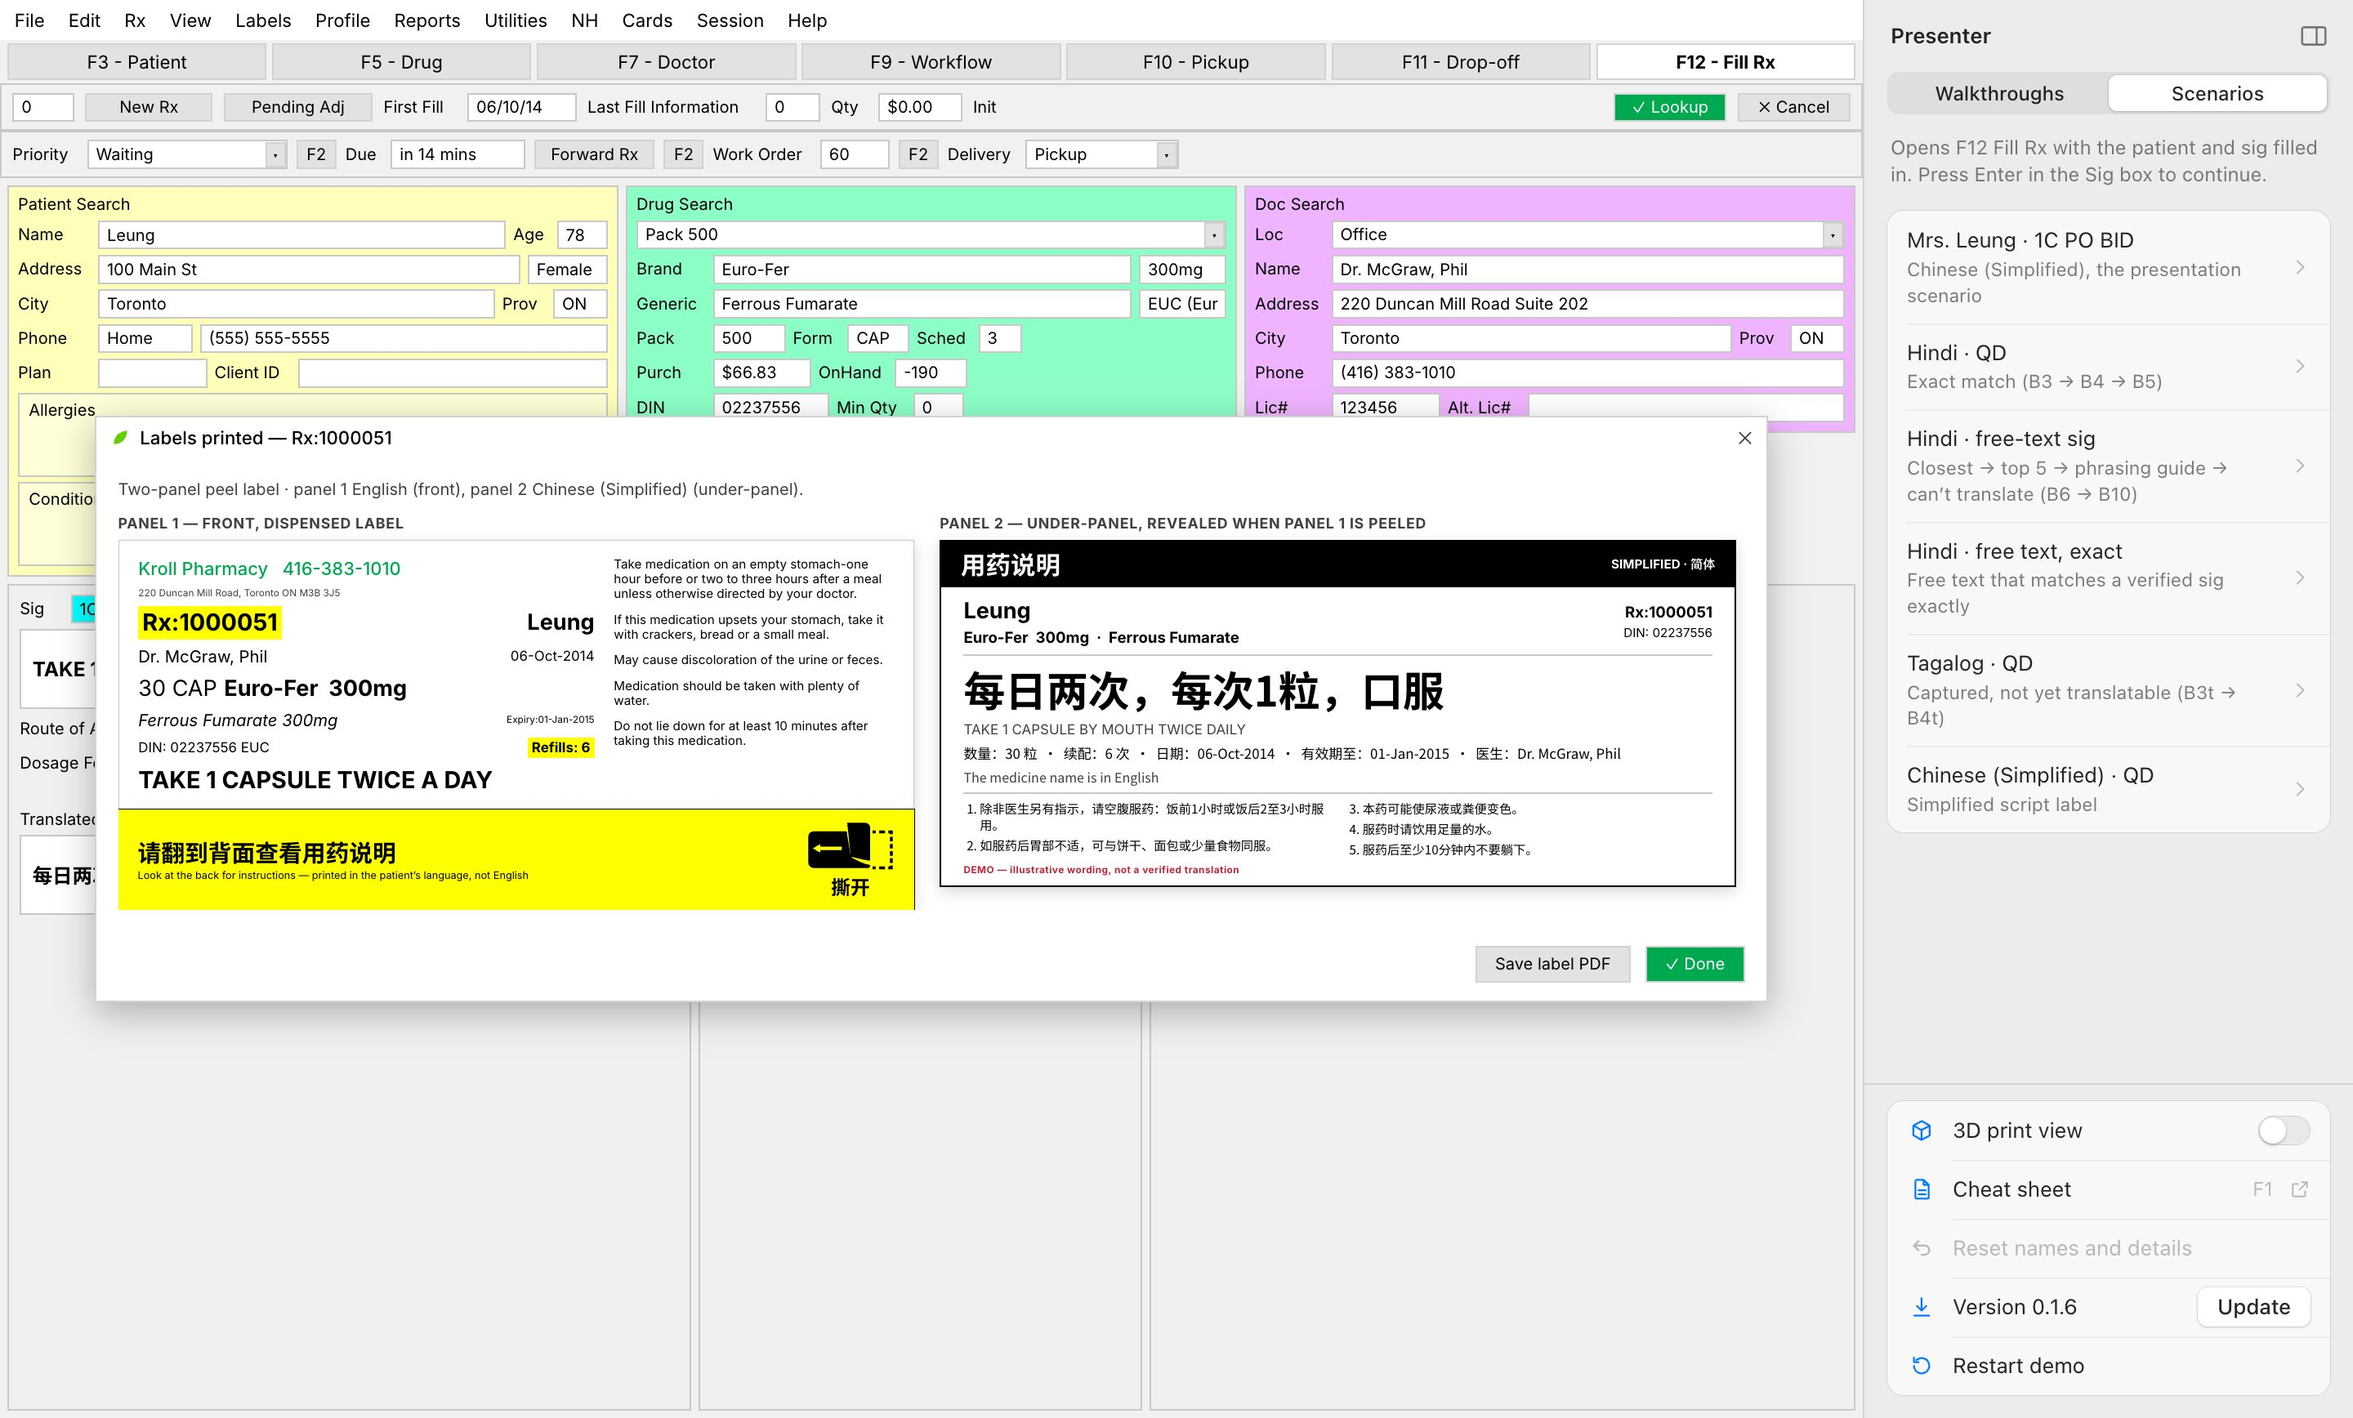
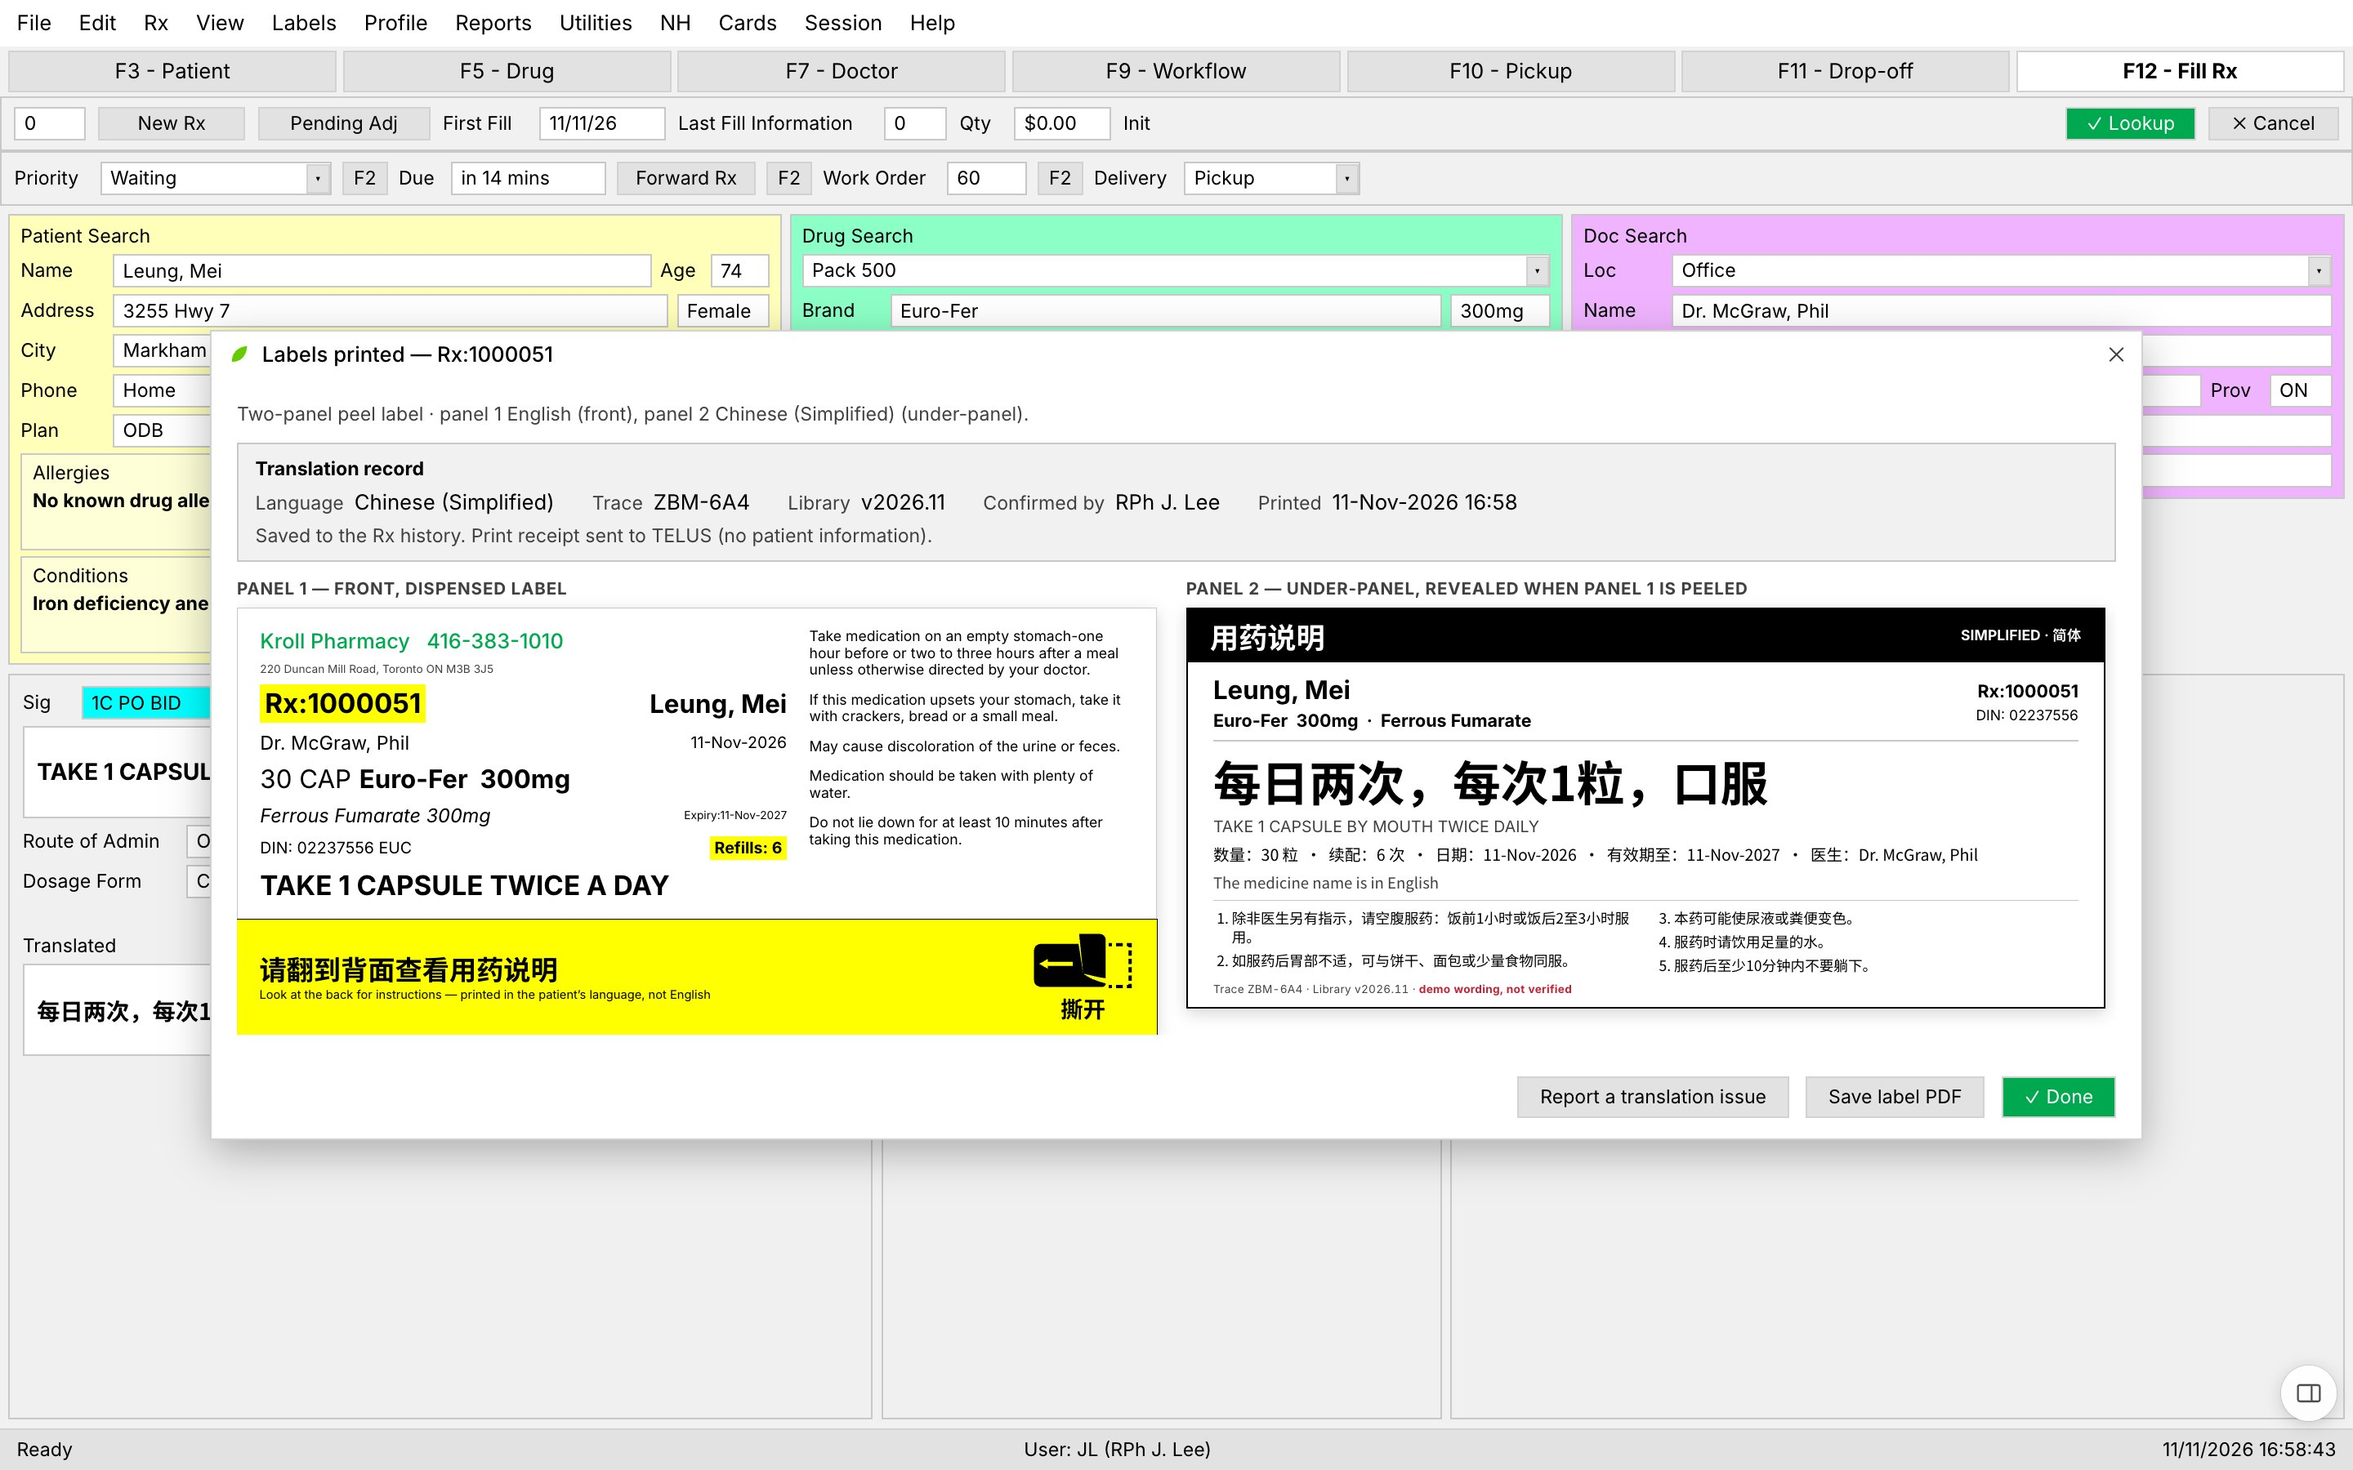
chore: release 0.1.7
README covers the edge cases, reporting and the audit log; screenshots recaptured.

diff --git a/README.md b/README.md
@@ -2,6 +2,8 @@
 
 A clickable demo of the **GBDA 402 capstone** concept for TELUS Health **Kroll**. The pharmacist records the patient's language, fills an Rx, and confirms a translated sig. Kroll then prints a **two-panel peel label**: English on the front and the patient's language underneath. A 3D printer prints it onto a pill vial.
 
+It also covers what happens when things go wrong: a language that isn't supported yet, a sig with no verified sentence, a translation reported as wrong before or after printing, a sentence paused for every pharmacy, and the audit log that proves what printed.
+
 It runs on **macOS and Windows**.
 
 > [!IMPORTANT]
@@ -44,14 +46,17 @@ The screens are rebuilt from the team's Figma file *GBDA 402 Capstone*: section 
 
 | Step | Screen |
 |---|---|
-| 1. **F3 Patient**: record the patient's language. Languages with verified sigs show *(Translation Available)*. | ![F3 Patient language list](docs/screenshots/01-patient-language.jpg) |
-| 2. **F12 Fill Rx**: type a sig code (`QD`, `BID`, `2 CAP PO QHS`) or free text and press ↵. The **Translated Sig** pop-up shows the matching state. | ![Closest match](docs/screenshots/03-closest-match.jpg) |
-| 3. Free text that isn't exact goes **Closest → Not this one → Top 5 → None of these → Phrasing guide → None of these fit → Can't translate** (English label only). | ![Top 5 candidates](docs/screenshots/04-top-five.jpg) |
-| 4. Once confirmed, the translation lands in the Rx and the labels print: a 3D printer feeds both panels onto an amber vial. **Peel panel 1** reveals the patient's language underneath. | ![3D printer and vial, panel peeled](docs/screenshots/05-print-3d-peeled.jpg) |
-| 5. With **3D print view** off, or on request via the **Labels** menu, **Labels F2** or **Ctrl/⌘+L**, the labels open right inside Kroll. **Save label PDF** prints them 4 in wide. | ![Label preview inside Kroll](docs/screenshots/06-label-preview-in-kroll.jpg) |
-| 6. Chinese (Simplified) prints the same way. This is Mrs. Leung's label from the presentation walkthrough, sig `1C PO BID`. | ![Mrs. Leung's English and Chinese labels inside Kroll](docs/screenshots/09-mrs-leung-label.jpg) |
+The demo patient is **Ms. Mei Leung**, the team's primary persona: 74, Markham, reads Chinese (Simplified). **Mrs. Parvin Farahani**, mother of the secondary persona Sara Farahani, reads Persian, which isn't translatable at rollout.
 
-The Translated Sig pop-up has six states:
+| Step | Screen |
+|---|---|
+| 1. **F3 Patient**: record the patient's language. Languages with verified sigs show *(Translation Available)*. | ![F3 Patient language list](docs/screenshots/01-patient-language.jpg) |
+| 2. **F12 Fill Rx**: type a sig code (`QD`, `1C PO BID`, `2 CAP PO QHS`) or free text and press ↵. The **Translated Sig** pop-up shows the verified sentence and where it came from. The pharmacist confirms the English; the translation's accuracy is the verified library's. | ![Exact match](docs/screenshots/02-exact-match.jpg) |
+| 3. Free text that isn't exact goes **Closest → Not this one → Top 5 → None of these → Phrasing guide → None of these fit → Can't translate**: English label only, with a translation request logged. | ![Top 5 candidates](docs/screenshots/04-top-five.jpg) |
+| 4. **Preview labels** before printing, or print straight away: a 3D printer feeds both panels onto an amber vial, and **Peel panel 1** reveals the patient's language underneath. Each translated label carries a **trace code**. | ![3D printer and vial, panel peeled](docs/screenshots/05-print-3d-peeled.jpg) |
+| 5. With **3D print view** off, or via the **Labels** menu, **Labels F2** or **Ctrl/⌘+L**, the labels open inside Kroll with the **translation record** saved to the Rx history. **Save label PDF** prints them 4 in wide. | ![Ms. Leung's English and Chinese labels inside Kroll](docs/screenshots/09-mrs-leung-label.jpg) |
+
+The Translated Sig pop-up has seven states:
 
 | State | Figma frame |
 |---|---|
@@ -61,29 +66,49 @@ The Translated Sig pop-up has six states:
 | Phrasing guide | B9 |
 | Can't translate | B10 |
 | Captured, not yet translatable | B4t |
+| Paused (a severity 1 report is being re-reviewed) | E6 |
+
+## Edge cases: reporting and the audit log
+
+Two PRDs drive the error cases. Everything works in free play as well as in the guided scenarios.
+
+**Reporting a translation issue.** Report from the label preview before printing, from a printed label, from **Rx → Rx History**, or with **Utilities → Report a translation issue…** when a patient calls and reads out the Rx number.
+
+- The pharmacist picks the faulty line by its **standard English**, never a phrase ID, and says what's wrong, who noticed, and whether the medication was taken.
+- **Severity is computed, not chosen:** changes the meaning or missing information is 1, unreadable or unclear is 2, formatting only is 3, and a wrong English phrase is a pharmacy error that pauses nothing.
+- **Before printing:** the flagged line prints in English with a "could not be translated" note. If it's the dosing directions, no translated label prints at all.
+- **After printing:** a corrected or English-only reprint, a prompt to contact the patient if the medication was taken, and the AIMS incident-reporting reminder.
+- **Severity 1 pauses the sentence for every pharmacy.** Each pharmacy gets a callback list built from its own log; TELUS never sees it.
+
+| | |
+|---|---|
+| ![Line picker](docs/screenshots/10-report-line-picker.jpg) | ![Computed severity](docs/screenshots/11-report-severity.jpg) |
+| ![Paused sentence and callback list](docs/screenshots/14-paused-callback-list.jpg) | ![Audit entry verified against its receipt](docs/screenshots/12-audit-entry.jpg) |
+
+**Audit log.** Every print is logged in the pharmacy's Kroll with a random trace code, the phrases and library version used, who confirmed it, and a **fingerprint**. Entries are never edited; a correction is a new entry. Each translated print sends TELUS a **print receipt** with no patient information, queued while the pharmacy is offline. In a dispute, **Rx History → View entry** verifies the entry against its receipt and exports it as JSON.
 
 ## Presenter tools
 
-Presenter controls live in a sidebar on the right, styled like a macOS inspector (on macOS it uses the system's own translucent sidebar material and follows light/dark mode). None of it is part of Kroll. Hide it with the sidebar button or **Ctrl/⌘ + ,**; bring it back with the round button in the corner, the same shortcut, or **Demo → Show or Hide Presenter**.
+Presenter controls live in a sidebar on the right. None of it is part of Kroll. Hide it with the sidebar button or **Ctrl/⌘ + ,**; bring it back with the round button in the corner, the same shortcut, or **Demo → Show or Hide Presenter**.
 
-- **Walkthroughs** step through the flow. Each step explains what Kroll is doing and rings the control it is about. Press the blue button to have the step done for you, or use Kroll yourself and the walkthrough follows. Click any step to jump straight to it. **PageDown / PageUp** step forward and back, so a presentation clicker works.
-  1. **Mrs. Leung at the pharmacy:** the presentation scenario. Chinese (Simplified) at intake → `1C PO BID` → verified translation → peel-back label.
-  2. **No translation, English label:** a Tagalog patient, the fallback.
-  3. **The core flow:** Hindi `QD` → exact match → two-panel label on the vial.
-  4. **No exact match:** free-text sig → closest match → top 5 → phrasing guide → English only.
+- **Scenarios:** the main demo and nine edge cases. **▶ Walkthrough** takes you through one step at a time, with notes, and rings the control each step is about; do the step from the sidebar or in Kroll yourself. **Load only** fills Kroll in for that scenario and leaves the clicking to you. **PageDown / PageUp** step forward and back, so a presentation clicker works.
+  1. Basic: sig code → labels (Ms. Leung, `1C PO BID`)
+  2. Language not supported yet (Mrs. Farahani, Persian)
+  3. No verified sentence fits (`1 CAP QD FOR ANEMIA`)
+  4. Technician flags a line before printing
+  5. Dosing directions flagged
+  6. Family calls days later (Rx 1000048)
+  7. Another pharmacy pauses a sentence
+  8. TELUS ships the fix
+  9. Wrong English phrase picked
+  10. Offline, then a dispute
+- **Simulate the network:** another pharmacy reports a problem, TELUS ships the fix, and the pharmacy going offline.
+- **Controls:** 3D print view, Magnifier (zooms around the pointer, **⇧⌘M**), Cheat sheet, Undo edits, Start over, and Kroll size (**⌘+ / ⌘− / ⌘0**).
+- **Cheat sheet** (or **F1**) opens in its own window: every sig code grouped by meaning with its English and Chinese, what each pop-up means with a live example, and how to reach the reporting tools. Search filters the codes; a phrase with no code can be tried as free text. Click anything to run it in Kroll; **Save as PDF** for a printable copy.
 
-  ![Walkthrough in the presenter sidebar](docs/screenshots/08-walkthrough.jpg)
-
-- **Scenarios** and the settings at the bottom of the sidebar:
-  - **3D print view** switches between the 3D printer → vial view and labels shown inside Kroll. The setting is remembered between launches.
-  - **Load a scenario** jumps straight into each branch:
-    - Mrs. Leung, Chinese (Simplified) `1C PO BID`
-    - Hindi `QD` and Hindi free text
-    - Tagalog
-    - Chinese (Simplified)
-  - **Cheat sheet** (or **F1**) opens in its own window, so it can sit beside Kroll or on a second screen. It covers every sig code × patient language, plus free-text examples, the pharmacist moves and the keys. It is computed live from the provider, so it always matches what the app does.
-    - **Click any cell** to load that sig into Fill Rx in the main window and run it.
-    - **Save as PDF** gives you a printable copy.
+| | |
+|---|---|
+| ![Presenter sidebar](docs/screenshots/13-presenter.jpg) | ![Walkthrough in the presenter sidebar](docs/screenshots/08-walkthrough.jpg) |
 
 ![Cheat sheet](docs/screenshots/07-cheat-sheet.jpg)
 
@@ -97,11 +122,13 @@ Presenter controls live in a sidebar on the right, styled like a macOS inspector
 | F1 | Cheat sheet |
 | Ctrl/⌘ + , | Show or hide the presenter sidebar |
 | PageDown / PageUp | Next / previous walkthrough step |
+| ⇧⌘M (Ctrl+Shift+M) | Magnifier |
+| Ctrl/⌘ + / − / 0 | Kroll size |
 | Esc | Close the pop-up or cheat sheet |
 
 ## Editing on screen
 
-Patient, doctor, drug, quantity and refill fields on F3 Patient and F12 Fill Rx can be typed into, and what you type prints on the labels. **Reset names and details** in the sidebar puts them back.
+Patient, doctor, drug, quantity and refill fields on F3 Patient and F12 Fill Rx can be typed into, and what you type prints on the labels. **Undo edits** in the sidebar puts them back. Patient details are demo values; phone numbers are fictional (555-01xx) and health card numbers are obviously fake.
 
 ## Sig codes and languages
 
@@ -112,10 +139,9 @@ Patient, doctor, drug, quantity and refill fields on F3 Patient and F12 Fill Rx 
 
 **Languages:**
 
-- **Hindi and Chinese (Simplified):** every code above.
-- **French, Arabic, Chinese (Traditional), Punjabi, Spanish, Tagalog, Urdu:** recorded on the patient but not yet translatable.
-
-Sentences the team didn't write are in `DRAFTS` in the phrasebook and marked **Draft** on the cheat sheet. Nobody has verified them, and only the exact code reaches them; free text is only ever matched to team sentences. A code with no sentence for the patient's language or dose goes straight to the phrasing guide, which is the correct, safe behaviour. To add a sentence, put it in [`src/renderer/src/data/phrasebook.ts`](src/renderer/src/data/phrasebook.ts). The app and the cheat sheet pick it up.
+- **Chinese (Simplified):** every code above. Three are the team's wording; the rest (`CHINESE_LIBRARY` in the phrasebook) were written in the same style and still need a certified translator's review.
+- **Hindi:** every code above; sentences the team didn't write are in `DRAFTS` and marked **Draft** on the cheat sheet. Only the exact code reaches a draft; free text never does.
+- **French, Arabic, Chinese (Traditional), Persian (Farsi), Punjabi, Spanish, Tagalog, Urdu:** recorded on the patient but not yet translatable. A code with no sentence for the patient's language or dose goes straight to the phrasing guide, which is the correct, safe behaviour. To add a sentence, put it in [`src/renderer/src/data/phrasebook.ts`](src/renderer/src/data/phrasebook.ts). The app and the cheat sheet pick it up.
 
 ## Translation provider
 
@@ -155,8 +181,8 @@ Both platforms build on a Mac; no Wine is needed.
 
 ### Release (with auto-update)
 
-1. Put the read-only update token in `.env.local` (see `.env.example`; it's git-ignored).
-2. Bump `version` in `package.json` (e.g. `0.1.1`) and commit.
+1. Bump `version` in `package.json` (e.g. `0.1.8`), recapture the README screenshots, and commit.
+2. Push `main` to this repo.
 3. Run `npm run release`. It tests and builds both platforms, then creates the `v<version>` GitHub release with just the three files: the Mac dmg, the Windows installer and the Windows portable exe. It uses your `gh` login. [`.github/workflows/build.yml`](.github/workflows/build.yml) does three things:
 
 - runs the tests;
@@ -174,7 +200,7 @@ src/renderer/    React app
   print/         Print view + the three.js printer → vial scene
   cheatsheet/    the live cheat sheet
   demo/          presenter sidebar, walkthrough steps, focus ring
-  data/          languages, phrase bank, demo provider, demo Rx
+  data/          languages, phrase bank, demo provider, demo Rx, audit log + seeded history
 build/           app icon
 tests/           vitest unit tests + Playwright end-to-end
 ```
